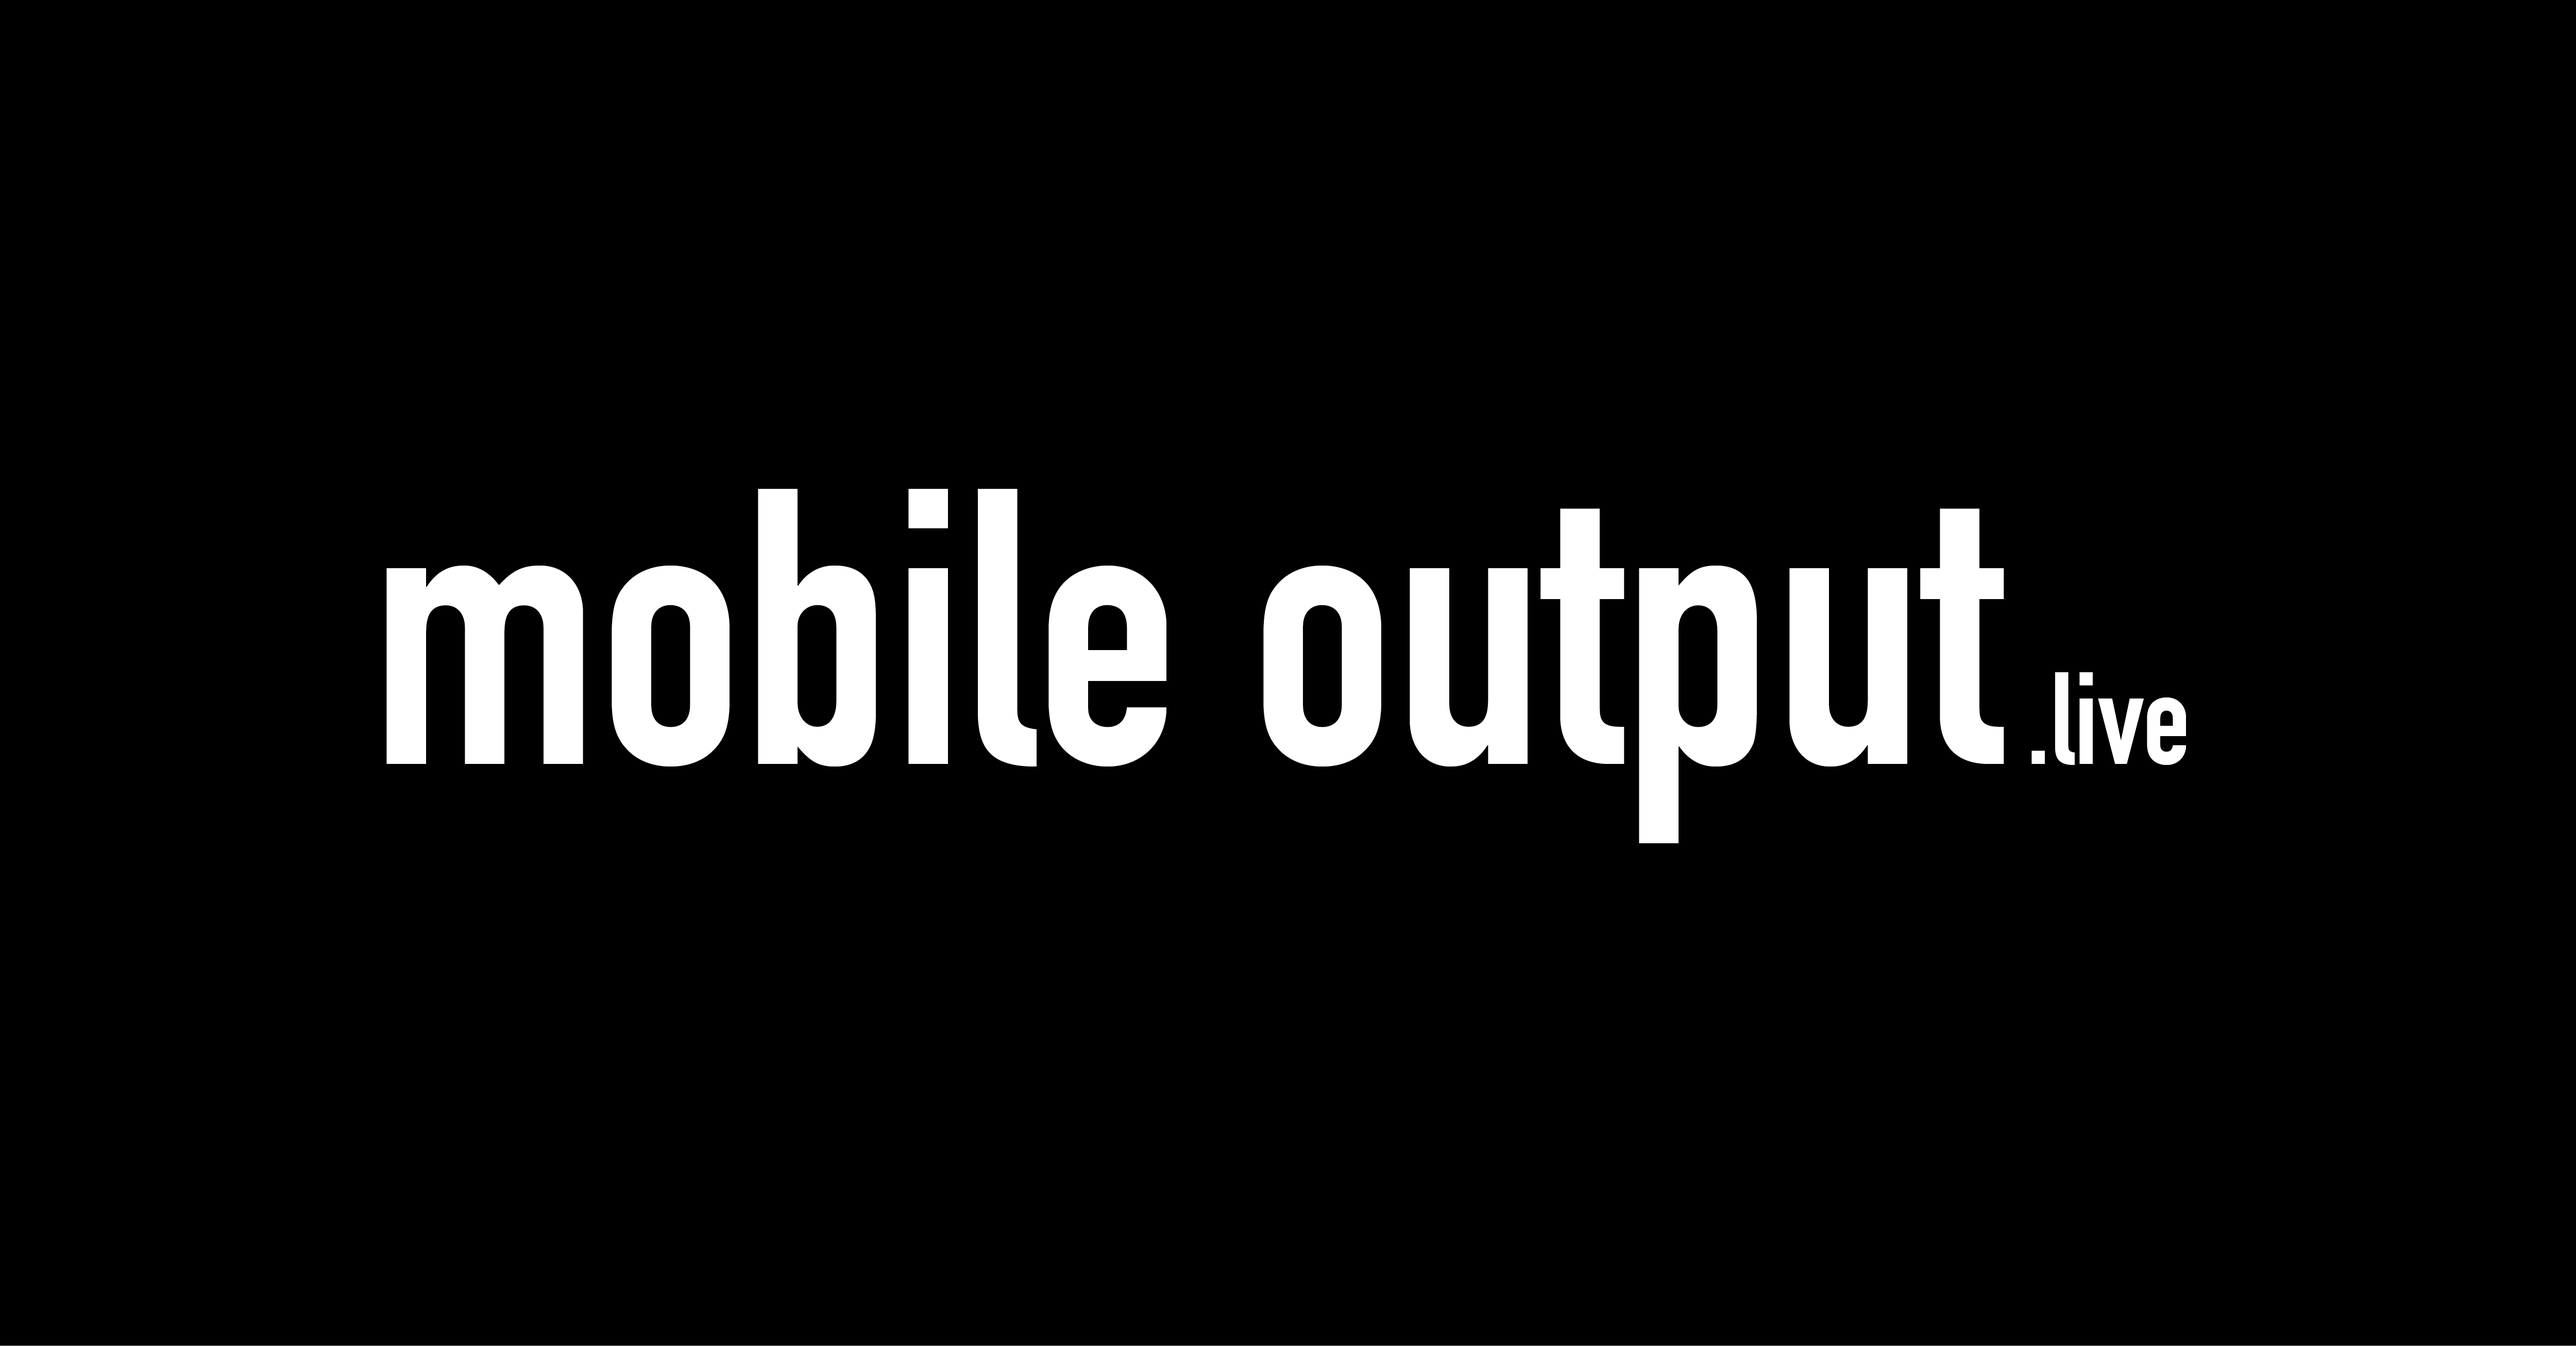
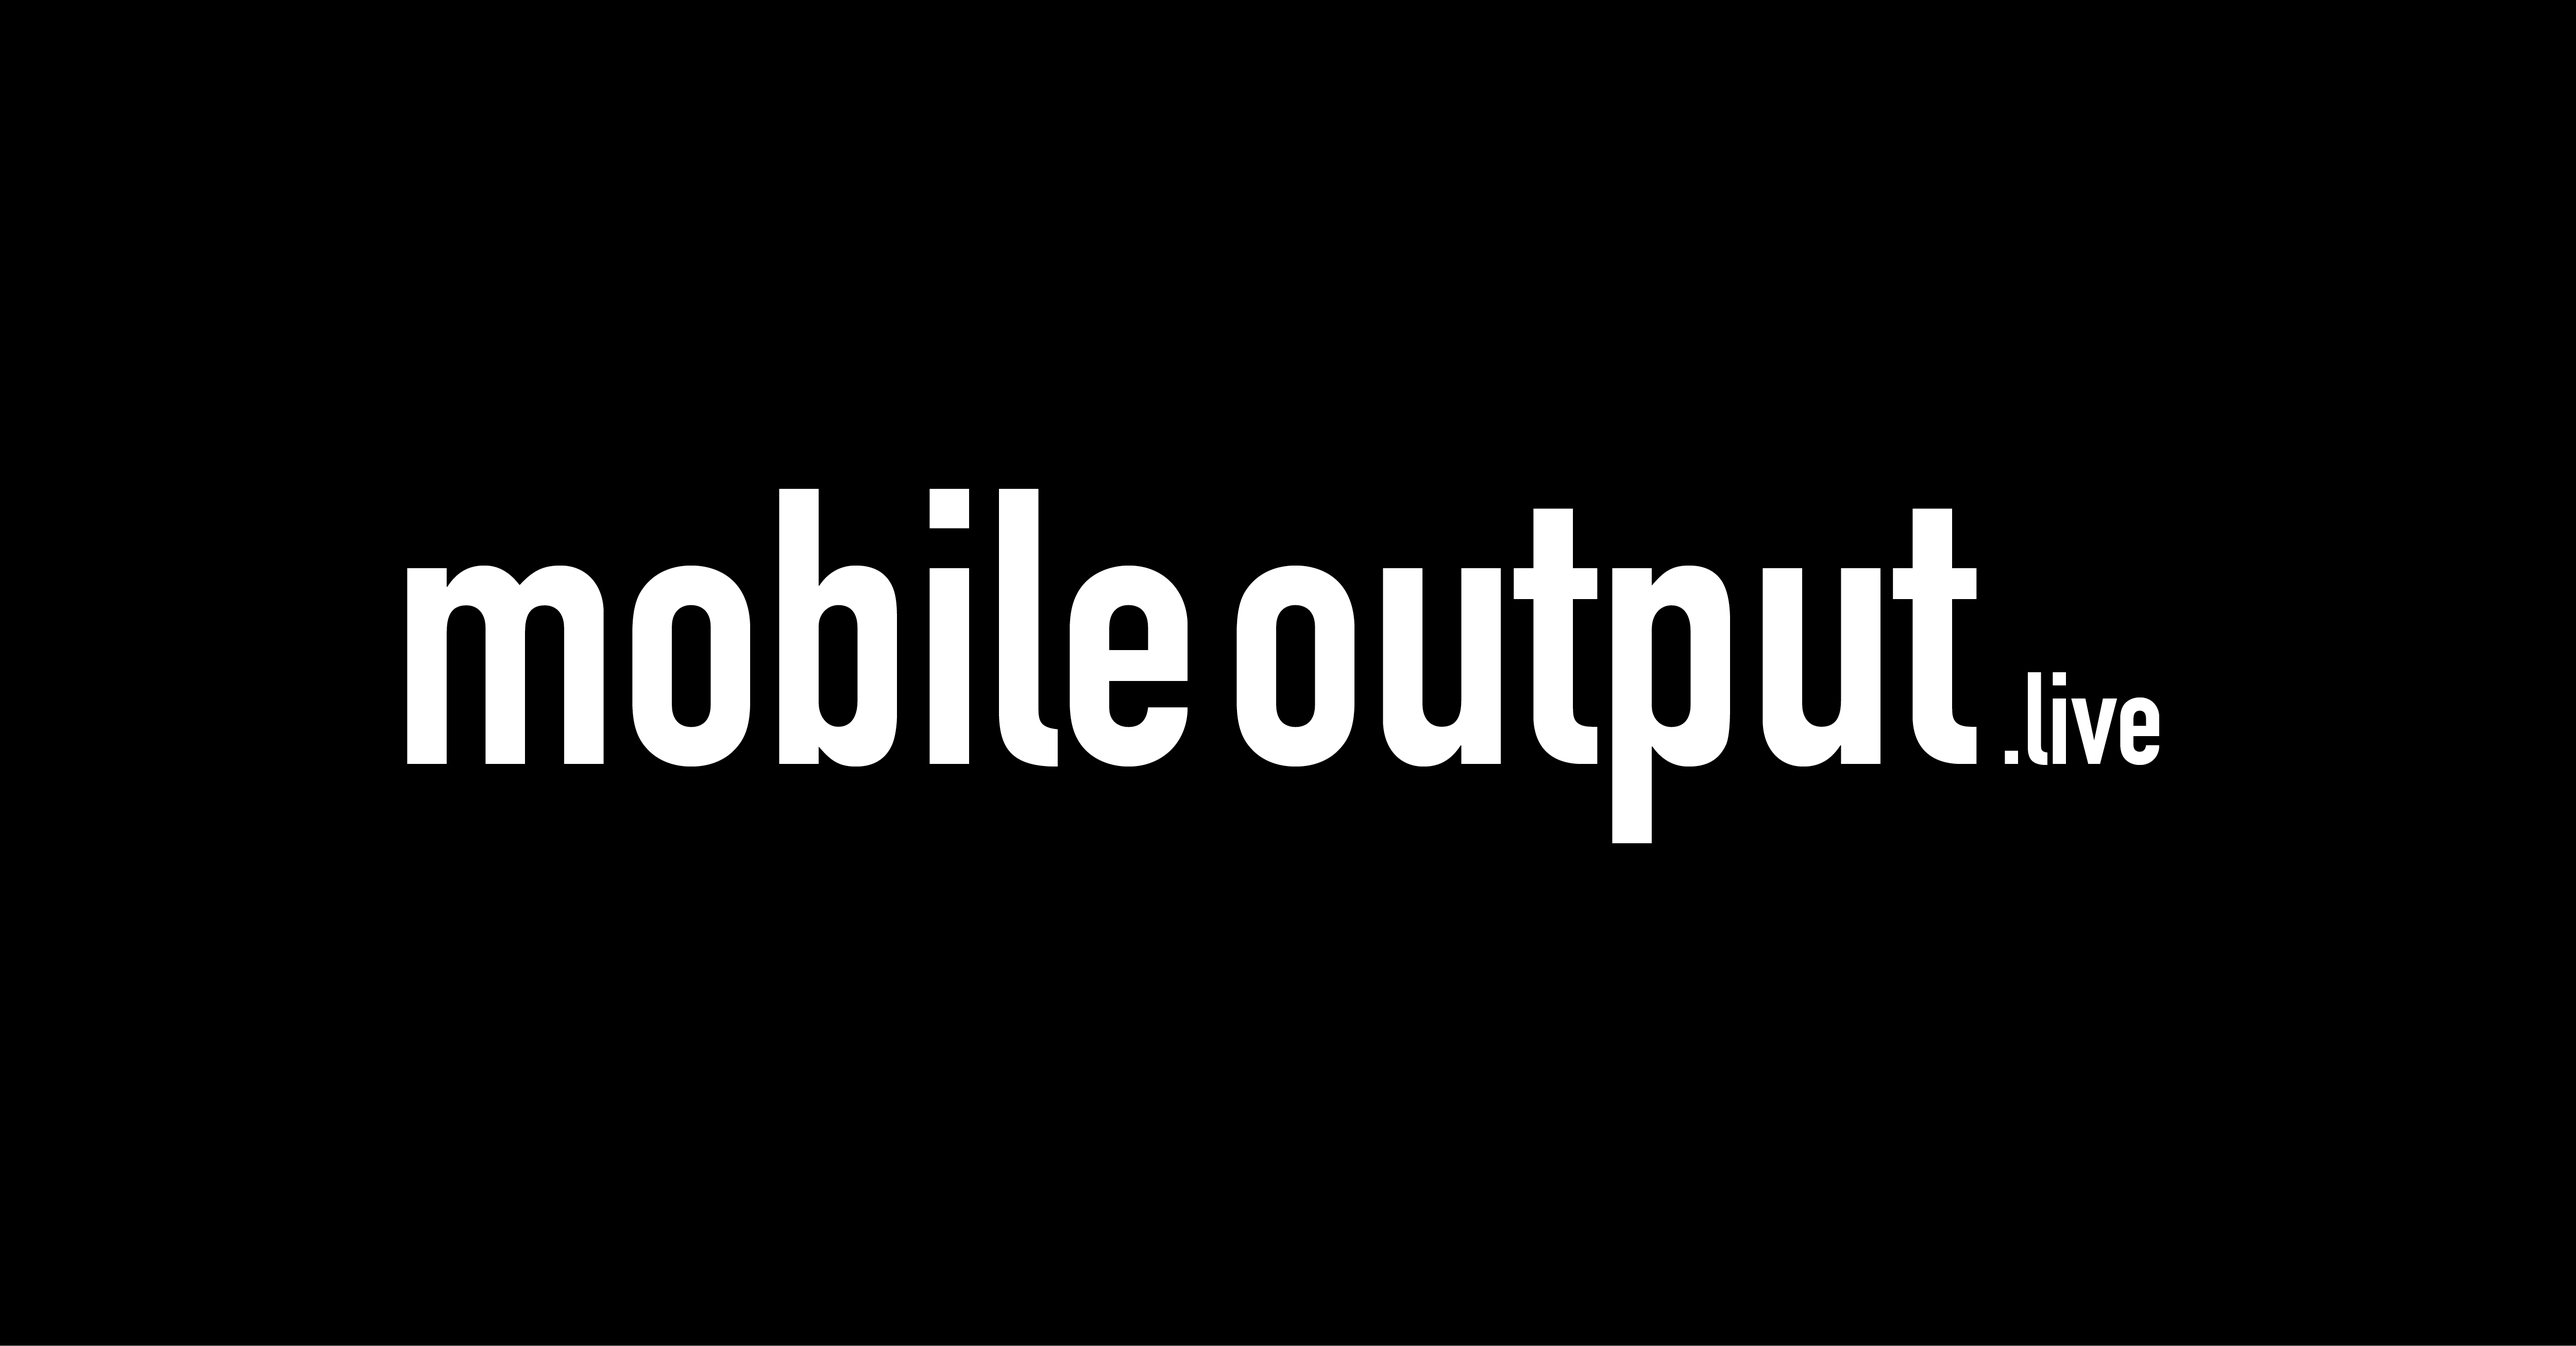
OG

Changed region(s): [[0.1248, 0.341, 0.8736, 0.651]]

diff --git a/index.html b/index.html
@@ -4,7 +4,7 @@
     <meta charset="UTF-8">
     <meta http-equiv="X-UA-Compatible" content="IE=edge">
     <meta name="viewport" content="width=device-width, initial-scale=1">
-	<meta property="og:title" content="Mobile Output">
+	<meta property="og:title" content="mobileoutput.live">
 	<meta property="og:description" content="Monthly live streams and curated DJ sets from creatives and music lovers.">
     <meta property="og:image" content="/images/title 1200x627 open graph image.png">  
     <title>mobileoutput.live</title>
